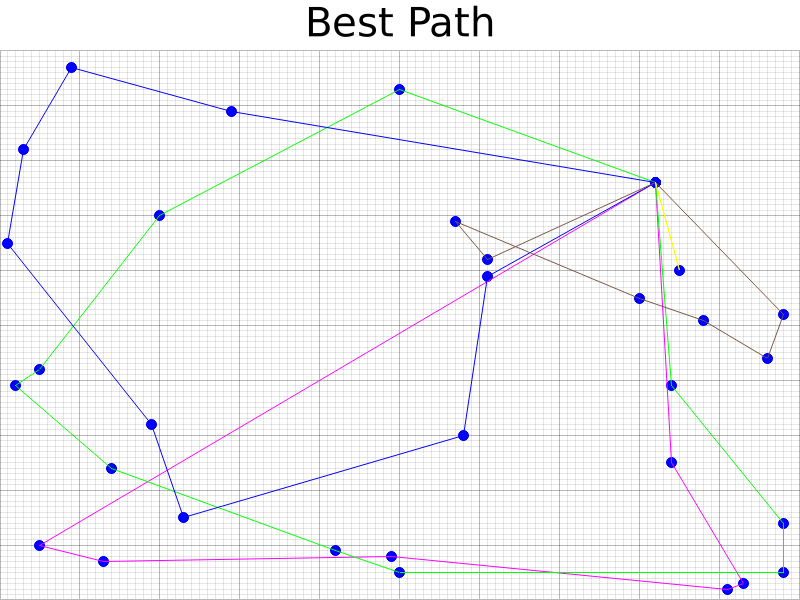
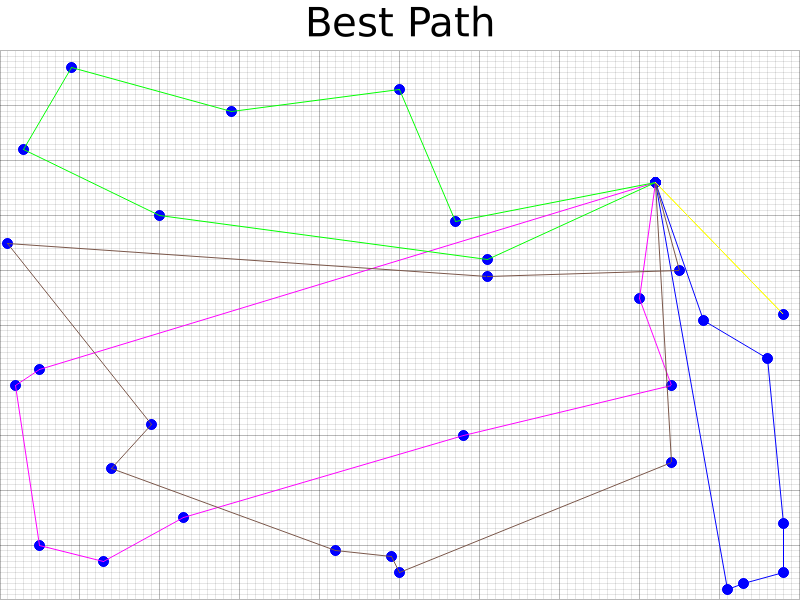
fixed tabu search

diff --git a/algorithms/tabu_search.rs b/algorithms/tabu_search.rs
@@ -1,53 +1,83 @@
 use std::collections::VecDeque;
-
-use rand::seq::{IndexedRandom, SliceRandom};
-use rand::random_range;
+use rand::seq::SliceRandom;
+use statrs::statistics::Statistics;
 
 use crate::core::{Instance, Node};
 use crate::evaluator::evaluate;
 
-pub fn tabu_search(instance: &Instance) -> (f64, Vec<Node>) {
-    let mut tabu_map: VecDeque<TabuMoves> = VecDeque::new();
+pub fn tabu_search(instance: &Instance, iterations: i32, tabu_size: usize) -> (f64, Vec<Node>, f64, f64) {
+    let mut tabu_list: VecDeque<TabuMoves> = VecDeque::new();
     let mut path: Vec<Node> = instance.nodes.clone();
     let mut rng = rand::rng();
     path[1..].shuffle(&mut rng);
 
     let mut best_fitness = evaluate(instance, path.clone()).0;
     let mut best_path = path.clone();
+    let mut worst_fitness = best_fitness;
+    let mut runs: Vec<f64> = Vec::new();
 
-    for _ in 0..10000000 {
-        let a = random_range(1..path.len());
-        let b = random_range(a..path.len());
+    for _ in 0..iterations {
+        let mut best_neighbor = None;
+        let mut best_neighbor_fitness = f64::INFINITY;
+        let mut best_move = None;
 
-        let move_type = *[
-            TabuMoves::Swap(a, b),
-            TabuMoves::Relocate(a, b),
-            TabuMoves::TwoOpt(a, b),
-        ]
-        .choose(&mut rng)
-        .unwrap();
+        for i in 1..path.len() {
+            for j in i + 1..path.len() {
+                let moves = [
+                    TabuMoves::Swap(i, j),
+                    TabuMoves::Relocate(i, j),
+                    TabuMoves::TwoOpt(i, j),
+                ];
 
-        if !tabu_map.contains(&move_type) || evaluate(instance, path.clone()).0 < best_fitness {
-            match move_type {
-                TabuMoves::Swap(i, j) => swap(&mut path, i, j),
-                TabuMoves::Relocate(i, j) => relocate(&mut path, i, j),
-                TabuMoves::TwoOpt(i, j) => relocate(&mut path, i, j),
+                for &move_type in &moves {
+                    let mut new_path = path.clone();
+
+                    match move_type {
+                        TabuMoves::Swap(a, b) => swap(&mut new_path, a, b),
+                        TabuMoves::Relocate(a, b) => relocate(&mut new_path, a, b),
+                        TabuMoves::TwoOpt(a, b) => two_opt(&mut new_path, a, b),
+                    }
+
+                    let new_fitness = evaluate(instance, new_path.clone()).0;
+
+                    let is_tabu = tabu_list.contains(&move_type);
+                    let aspiration_criteria = new_fitness < best_fitness;
+
+                    if new_fitness < best_neighbor_fitness && (!is_tabu || aspiration_criteria) {
+                        best_neighbor = Some(new_path.clone());
+                        best_neighbor_fitness = new_fitness;
+                        best_move = Some(move_type);
+                    }
+                }
+            }
+        }
+
+        if let Some(new_path) = best_neighbor {
+            path = new_path;
+            if let Some(mv) = best_move {
+                tabu_list.push_back(mv);
+                if tabu_list.len() > tabu_size {
+                    tabu_list.pop_front();
+                }
             }
 
-            let new_fitness = evaluate(instance, path.clone()).0;
-            if new_fitness < best_fitness {
+            if best_neighbor_fitness < best_fitness || rand::random::<f64>() < 0.05 {
                 best_path = path.clone();
-                best_fitness = new_fitness;
+                best_fitness = best_neighbor_fitness;
             }
 
-            tabu_map.push_back(move_type);
-            if tabu_map.len() > 10 {
-                tabu_map.pop_front();
+            if best_neighbor_fitness > worst_fitness {
+                worst_fitness = best_neighbor_fitness;
             }
+
+            runs.push(best_neighbor_fitness);
         }
     }
 
-    (best_fitness, evaluate(instance, best_path).1)
+    let mean = runs.as_slice().mean();
+    let std_dev = runs.std_dev();
+
+    (best_fitness, evaluate(instance, best_path).1, mean, std_dev)
 }
 
 fn swap(path: &mut Vec<Node>, a: usize, b: usize) {

diff --git a/src/main.rs b/src/main.rs
@@ -40,30 +40,32 @@ macro_rules! time {
 }
 
 fn main() {
-    let instance: Instance;
-    match load_instance("./instances/A-n32-k5.vrp.txt") {
-        Ok(ins) => {
-            instance = ins;
-        }
+    let instance: Instance = match load_instance("./instances/A-n32-k5.vrp.txt") {
+        Ok(ins) => ins,
         Err(e) => {
             eprintln!("Error loading instance: {}", e);
             return;
         }
-    }
-    let (ga_distance, ga_path) = time!(genetic_algorithm(&instance));
-    let (gr_distance, gr_path) =  time!(greedy_search(&instance));
-    let (tabu_distance, tabu_path) = time!(tabu_search(&instance));
-    let (rs_distance, best_index, rs_path) = time!(random_search(&instance));
-    println!("{}", tabu_distance);
-    println!("{}", ga_distance);
-    println!("{}", gr_distance);
-    println!("{}", rs_distance);
+    };  
+
+    let population_size = 100;
+    let generations = 100;
+    let iterations = 10000;
+    let (ga_distance, ga_path) = time!(genetic_algorithm(&instance, generations, population_size));
+    let (gr_distance, gr_path) = time!(greedy_search(&instance));
+    let (tabu_distance, tabu_path, tabu_worst, tabu_std) = time!(tabu_search(&instance, iterations, 10));
+    let (rs_best, rs_worst, rs_avg, rs_std, rs_path) = time!(random_search(&instance, iterations));
+    println!("Tabu Search: best path: {tabu_distance:.1}, worst path: {tabu_worst:.1}, std {tabu_std:.1}");
+    println!("Genetic Algorithm: best path: {ga_distance:.1}");
+    println!("Greedy search {gr_distance:.1}");
+    println!("Random Search: best path: {rs_best:.1}, worst path {rs_worst:.1}, avg {rs_avg:.1}, std {rs_std:.1}");
 
     plot_best_path(&tabu_path, "tabu_search.png");
     plot_best_path(&ga_path, "ga_search.png");
     plot_best_path(&gr_path, "gr_search.png");
     plot_best_path(&rs_path, "rs_search.png");
 }
+
 
 fn plot_best_path(best_path: &Vec<Node>, name: &str) {
     let root = BitMapBackend::new(name, (800, 600)).into_drawing_area();

diff --git a/algorithms/random_search.rs b/algorithms/random_search.rs
@@ -1,27 +1,37 @@
 use core::f64;
 
 use rand::seq::SliceRandom;
+use statrs::statistics::Statistics;
 
 use crate::core::{Instance, Node};
 use crate::evaluator::evaluate;
 
-pub fn random_search(instance: &Instance) -> (f64, i32, Vec<Node>) {
+pub fn random_search(instance: &Instance, iterations: i32) -> (f64, f64, f64, f64, Vec<Node>) {
     let mut shortest_distance = f64::INFINITY;
+    let mut longest_distance = -f64::INFINITY;
     let mut best_path: Vec<Node> = Vec::new();
-    let mut best_index = 0;
     let mut rng = rand::rng();
 
-    for i in 0..1e7 as i32 {
+    let mut runs: Vec<f64> = Vec::new();
+
+    for _ in 0..iterations {
         let mut path: Vec<Node> = instance.nodes.clone();
         let slice = &mut path[1..];
         slice.shuffle(&mut rng);
         let (current_run, updated_path) = evaluate(instance, path.clone());
         if current_run < shortest_distance {
-            best_index = i;
             shortest_distance = current_run;
             best_path = updated_path;
         }
+        if current_run > longest_distance {
+            longest_distance = current_run;
+        }
+
+        runs.push(current_run);
     }
 
-    (shortest_distance, best_index, best_path)
+    let mean = runs.as_slice().mean();
+    let std_dev = runs.std_dev();
+
+    (shortest_distance, longest_distance, mean, std_dev, best_path)
 }

diff --git a/algorithms/genetic_algorithm/genetic_algorithm.rs b/algorithms/genetic_algorithm/genetic_algorithm.rs
@@ -5,21 +5,22 @@ use crate::mutate::mutate;
 use crate::tournament_select::tournament_selection;
 use rand::{Rng, seq::SliceRandom};
 
-pub fn genetic_algorithm(instance: &Instance) -> (f64, Vec<Node>) {
-    let generations: i32 = 1000;
-    let generation_size: usize = 1000;
-
-    let mut population: Vec<Vec<Node>> = vec![instance.nodes.clone(); generation_size];
+pub fn genetic_algorithm(
+    instance: &Instance,
+    generations: i32,
+    population_size: i32,
+) -> (f64, Vec<Node>) {
+    let mut population: Vec<Vec<Node>> = vec![instance.nodes.clone(); population_size as usize];
     let mut rng = rand::rng();
 
     for individual in &mut population {
         individual[1..].shuffle(&mut rng);
     }
 
-    for _ in 0..generations {
+    for _ in 0..(generations * population_size) {
         let mut offspring: Vec<Vec<Node>> = Vec::new();
 
-        for _ in 0..(generation_size / 2) {
+        for _ in 0..(population_size / 2) {
             let parent1 = tournament_selection(&population, instance);
             let parent2 = tournament_selection(&population, instance);
 
